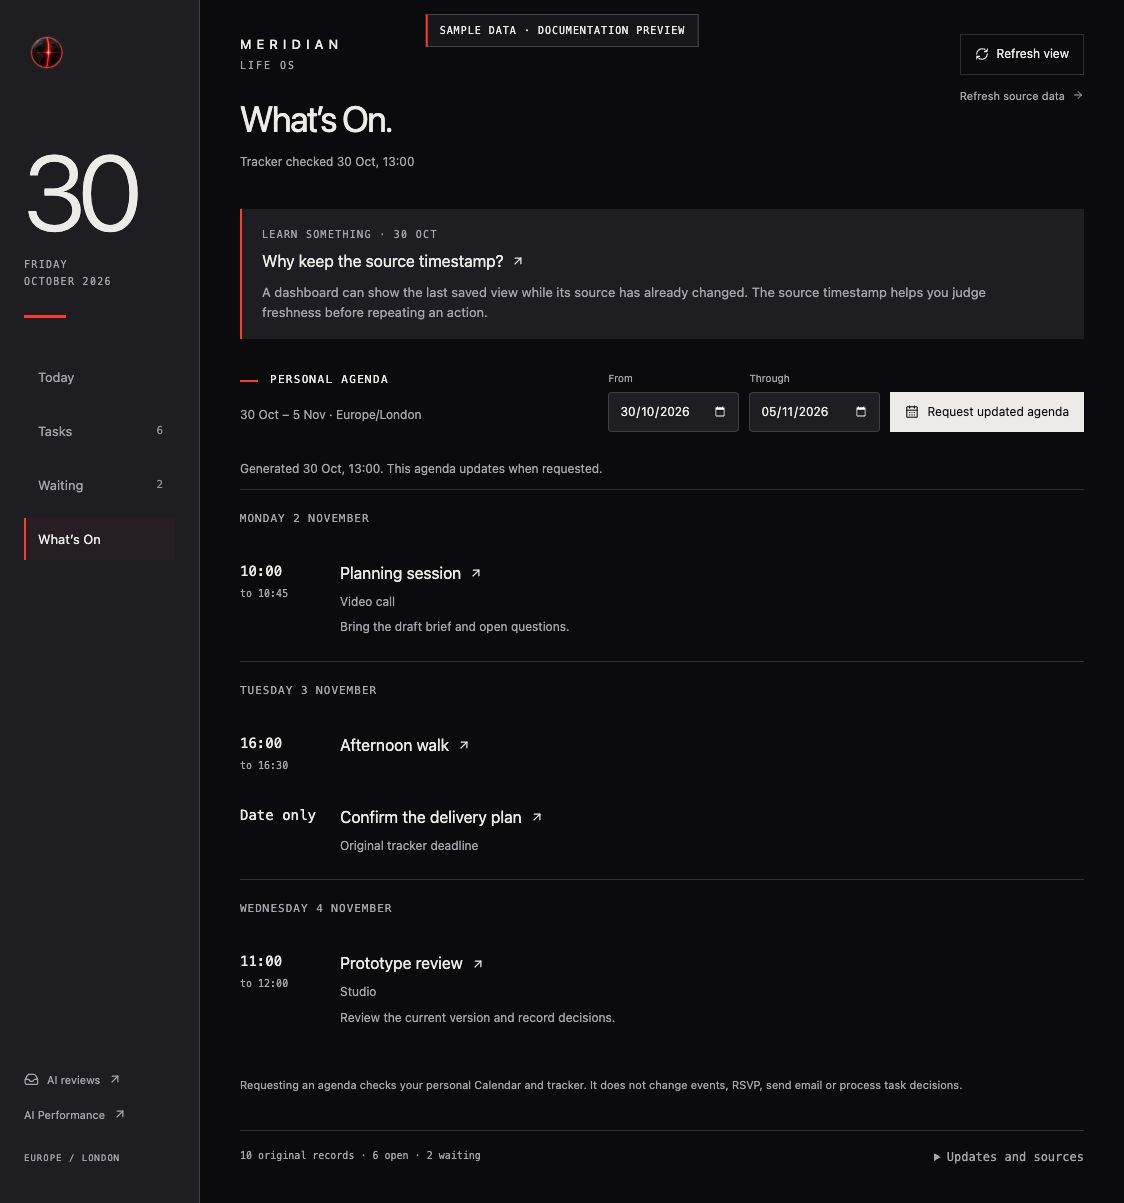
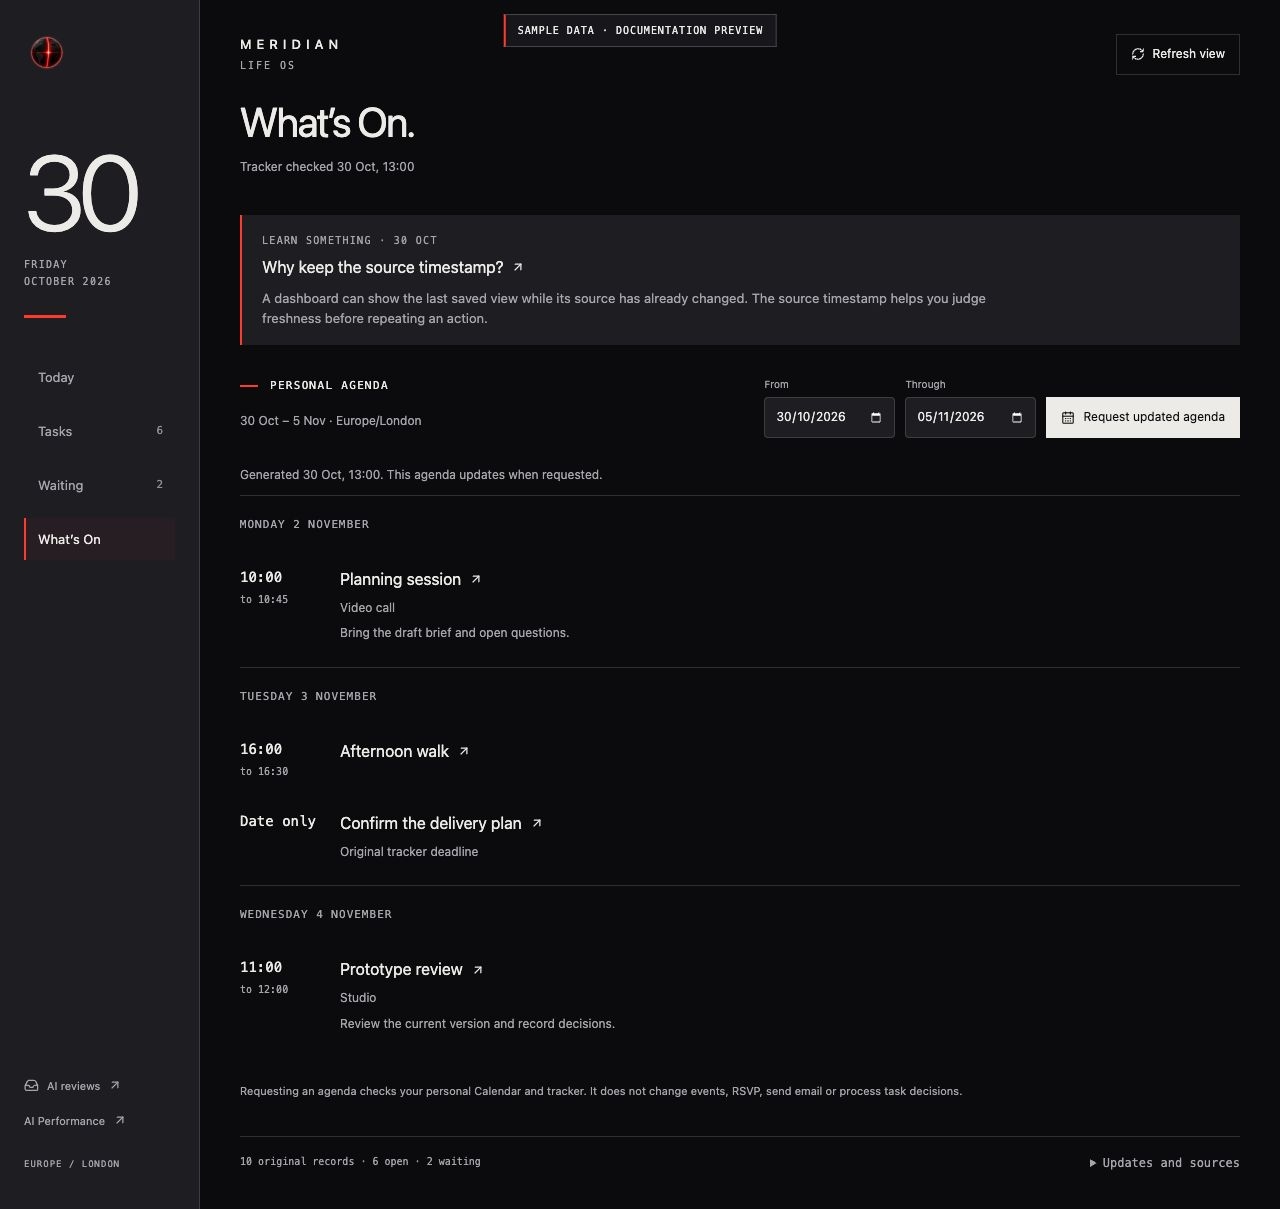
Document Life OS confirmed refresh selection (#8)

diff --git a/docs/life-os.md b/docs/life-os.md
@@ -10,9 +10,10 @@ These screenshots use the current interface with fictional sample data. Personal
 
 ## Updates and decisions
 
-- **While open:** the app rereads its saved data every minute and when reopened. Refresh view reads that same saved data immediately.
+- **While open:** the app rereads its saved data every minute and when reopened. This polling does not queue source reads.
 - **Source updates:** the existing Life Sweep is configured for 08:00, 13:00 and 19:00 Europe/London. It reads the original sources, updates Notion and publishes verified tracker, sweep and daily-learning data to the private app. No additional scheduler is introduced.
-- **Refresh source data:** saves an explicit tracker-refresh request for the existing connected publisher. It does not start another mail sweep. The request remains queued until a publisher processes it.
+- **Refresh view:** opens a picker with the current tab selected. Choose this tab, several tabs or all tabs, then confirm. Today, Tasks and Waiting share one tracker read, so the picker shows which other tabs receive the same task data. What’s On queues a separate Calendar-and-tracker request for the chosen date range, up to 92 days. Selecting every tab queues at most these two source requests. They wait for the existing connected updater.
+- **Reload saved data only:** a separate action inside the picker rereads the latest app snapshot without requesting a source update. Cancel or Escape also queues nothing. Lessons and sweep summaries retain the normal sweep cycle; this picker does not start a mail sweep.
 - **Task choices:** Done, Not doing, Pause and Resume are saved immediately in the private app with the authenticated actor, original task ID and evidence revision. The next connected Life Sweep checks the current Notion card, records the bounded change and reads its receipt back. Saved and verified in Notion are distinct states.
 - **Agenda:** generated only for an explicit requested date range. Opening the app or a routine sweep does not silently regenerate it.
 
@@ -21,6 +22,8 @@ The app is available from the cloud; viewing it does not require the Mac or a Te
 Life OS and AI Performance share one private ChatGPT Sites deployment, using Cloudflare Workers and a Cloudflare D1 app database. Hosting the interface does not move Notion records, scheduled ChatGPT work or Mac collectors into Cloudflare. The repository's public AI Workflows route remains the downloadable demo.
 
 A natural 13:00 London run on 30 October 2026 completed in the existing cloud chat. The matching app readback showed successful tracker, sweep and learning publication. The scheduler receipt and app publication were checked separately; an explicit run-ID binding between them was not exposed. Phone notification receipt and the separate Mac desktop-feed update remain unverified. See the [dated verification](verification-life-os-2026-10-30.md).
+
+![Life OS refresh picker with selected tabs, a shared tracker warning and an explicit confirmation, using fictional sample data](../assets/dashboard-previews/life-os-refresh.jpg)
 
 ## Today
 

diff --git a/docs/verification-life-os-2026-10-30.md b/docs/verification-life-os-2026-10-30.md
@@ -31,6 +31,14 @@ The public documentation was prepared from repository revision `485bfcebcfb324d4
 
 The HTTP fixtures were isolated from real business records. The one hosted task decision used the named synthetic record described above. None of these checks sent email, changed Calendar, generated candidate-model answers or applied a suggested fix.
 
+## Refresh picker follow-up
+
+Private app version 10, source `da9dd9ee063d8c20ca5377a11ff1f2112074ba83`, adds the confirmed tab picker to Refresh view. The original button reread the saved app snapshot; it did not refresh every source. The picker groups Today, Tasks and Waiting into one tracker request and keeps What’s On as a separate bounded agenda request. No source contract, schedule, task filter or decision behaviour changed.
+
+Focused checks passed for shared-scope deduplication, agenda-only isolation, empty selections, real calendar dates, inclusive 92-day limits and partial retry without resubmitting accepted scopes. The isolated sample-data browser preview verified current-tab and all-tab selection, cancel, Escape, saved-data reload, invalid dates, agenda-only queueing and recovery from a simulated agenda queue failure. It has no live source adapters. Existing Life OS task checks, TypeScript checking and the production build passed.
+
+The native private deployment succeeded. In the authenticated hosted app, Refresh view opened with Today selected, the shared tracker warning and explicit confirmation. Cancelling left the pre-existing pending request identities unchanged. No production source request or business action was started for this UI test. The guide and four screenshots use fictional sample data; private task records and app source remain excluded.
+
 ## Limits
 
 The app polls saved data; it does not continuously scan Notion, Gmail or Calendar. Life Sweep source publication follows the existing three daily cloud runs or an explicit processed request. Performance reporting retains its 12-hour Mac mirror and weekly full local-log scan. An offline Mac delays those local updates.

diff --git a/docs/life-os-dataflows.md b/docs/life-os-dataflows.md
@@ -33,13 +33,14 @@ flowchart LR
     V --> D[(Independent tracker · learning · sweep families)]
     D --> B[Date · next actions · coming dates · waiting]
     D --> E[Expanded saved lesson and original link]
-    B --> R[Refresh view: reread saved data]
-    B --> Q[Refresh source: queue bounded tracker request]
+    B --> R[Refresh view: choose tabs and inspect shared data]
+    R -->|Confirm tracker tabs| Q[One bounded tracker request]
+    R -->|Reload saved data only| D
     Q --> P[Existing publisher]
     P --> V
 ```
 
-The lesson is reused, not regenerated by browser refresh. A source-read time is not a judgment date or evidence of phone delivery.
+The picker starts with the current tab selected. Today, Tasks and Waiting share one tracker request; its other affected tabs are shown before confirmation. What’s On has a separate dated request and selecting all tabs queues at most two source updates. Cancel or Escape queues nothing. The lesson is reused, not regenerated by browser refresh. A source-read time is not a judgment date or evidence of phone delivery.
 
 ## Tasks and decision round trip
 
